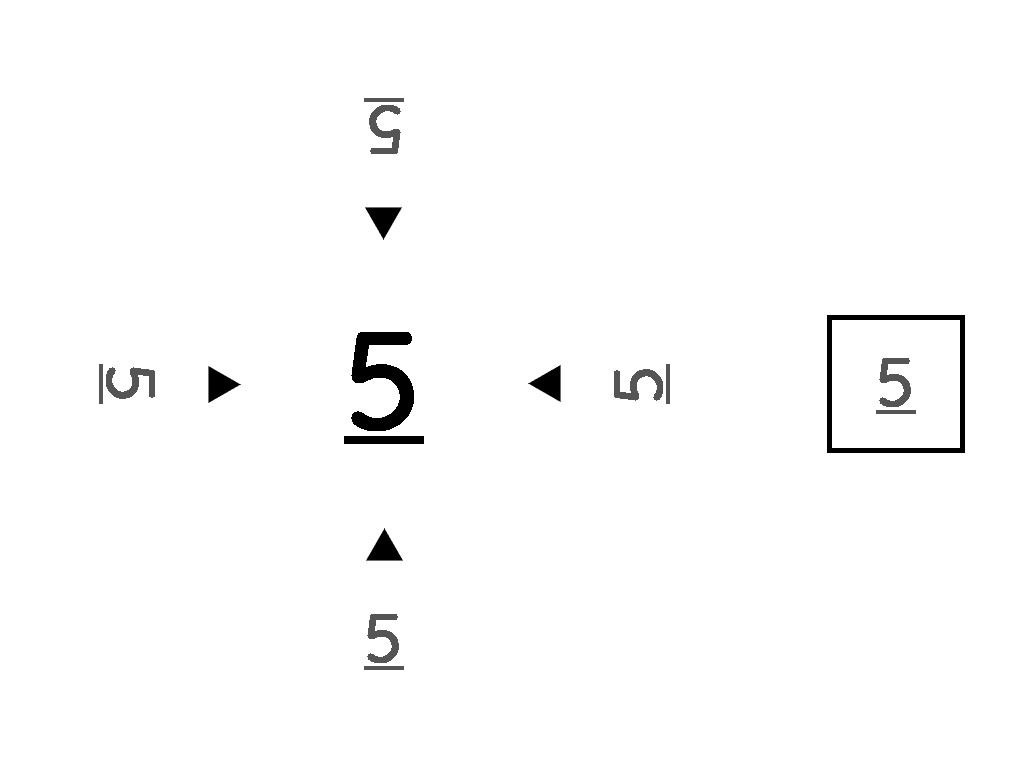
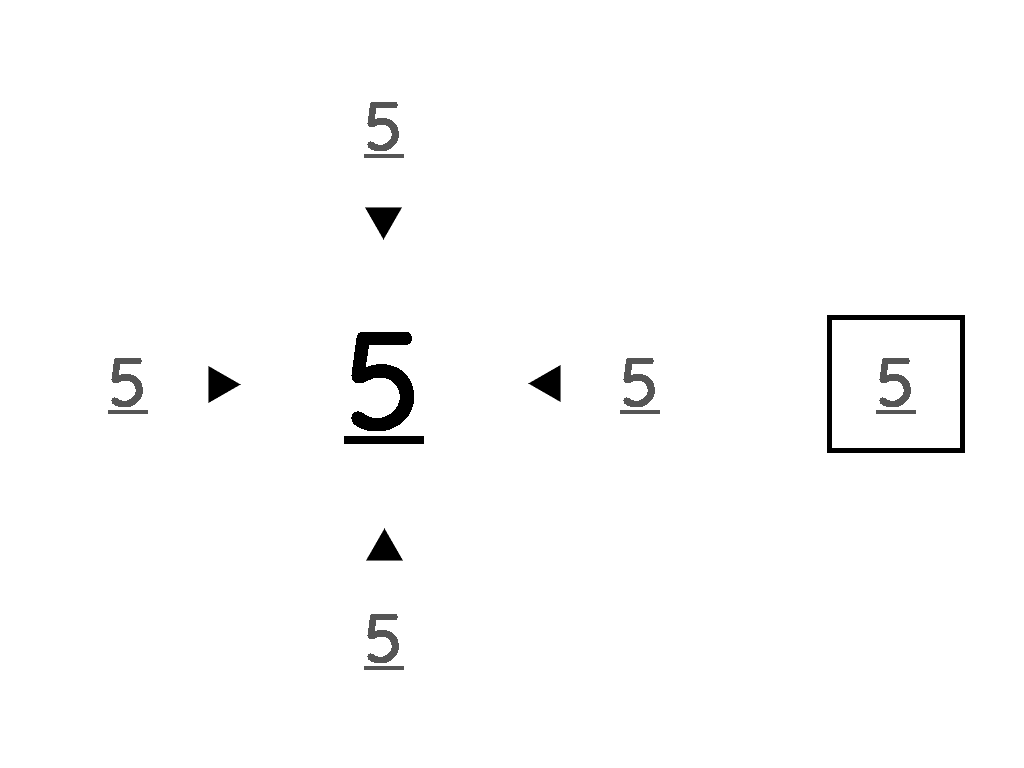
minor fix of block texture

Changed region(s): [[0.5938, 0.4688, 0.6562, 0.5625], [0.3438, 0.125, 0.4062, 0.2188], [0.0938, 0.4688, 0.1562, 0.5625]]

diff --git a/build.rs b/build.rs
@@ -73,15 +73,15 @@ fn main() {
                 let goal_small_pixel =
                     *img_goal_small.get_pixel(x + (i % 4) * 128, y + (i / 4) * 128);
                 // up
-                img.put_pixel(511 - (64 + x), 255 - (64 + y), goal_small_pixel);
+                img.put_pixel(256 + 64 + x, 64 + y, goal_small_pixel);
                 // down
-                img.put_pixel(256 + (64 + x), 512 + (64 + y), goal_small_pixel);
+                img.put_pixel(256 + 64 + x, 512 + 64 + y, goal_small_pixel);
                 // left
-                img.put_pixel(256 - (64 + y), 256 + (64 + x), goal_small_pixel);
+                img.put_pixel(64 + x, 256 + 64 + y, goal_small_pixel);
                 // right
-                img.put_pixel(512 + (64 + y), 511 - (64 + x), goal_small_pixel);
+                img.put_pixel(512 + 64 + x, 256 + 64 + y, goal_small_pixel);
                 // back
-                img.put_pixel(768 + (64 + x), 256 + (64 + y), goal_small_pixel);
+                img.put_pixel(768 + 64 + x, 256 + 64 + y, goal_small_pixel);
             }
         }
         img.save(format!("assets/images/image{}.png", i + 1))
